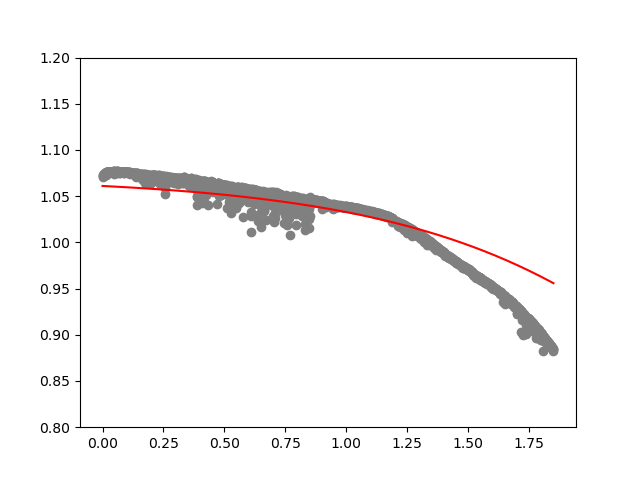
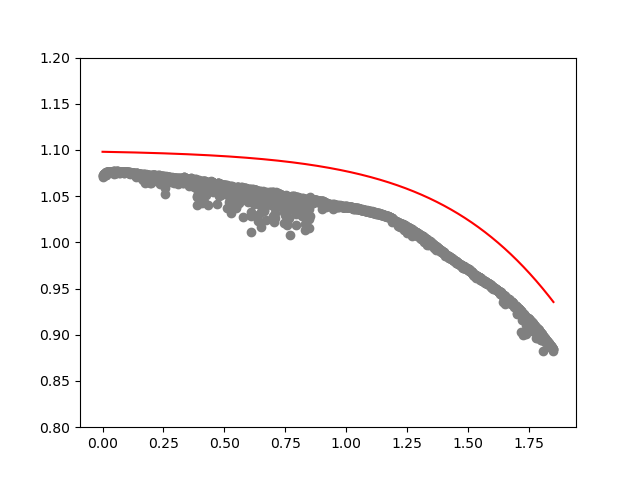
Updated code to incorporate karthik's features

diff --git a/bayes.py b/bayes.py
@@ -6,6 +6,7 @@ import pandas as pd
 import numpy as np
 
 import matplotlib.pyplot as plt
+from sklearn.preprocessing import scale
 
 from common import load_data, save_pickle
 from sklearn.metrics import mean_squared_error
@@ -22,24 +23,6 @@ def create_summary_dfs(data):
         tmp = pd.DataFrame(data[bc]['summary'])
         output_df.append(tmp)
     return output_df
-
-
-def create_features(dfs):
-    """[PLACEHOLDER FUNCTION FOR KARTHIK"""
-    x1_nominal_capacity = []
-    x2_average_temperature = []
-    x3_qd_pct_change_first100 = []
-
-    for df in dfs:
-        x1_nominal_capacity.append(df.loc[1,'QD'])
-        x2_average_temperature.append(df.loc[1,'Tavg'])
-        x3_qd_pct_change_first100.append((df.loc[100,'QD']-df.loc[1,'QD'])/df.loc[1,'QD'])
-
-    return pd.DataFrame({
-        'x1': np.array(x1_nominal_capacity),
-        'x2': np.array(x2_average_temperature),
-        'x3': np.array(x3_qd_pct_change_first100)
-    })
 
 
 def exp_decay_function(x, params):  # alpha=0.2, beta=2, gam=0.4; # alpha=0.000005, beta=1.44, gam=15000
@@ -69,45 +52,43 @@ def fetch_model(x, params, model_id):
     return y_pred
 
 
-def get_pred(data, params, model_id, scale=1000):
+def get_pred(num_cycles, params, model_id, scale=1000):
     """Helper function to access predictions for discharge capacity"""
-    cycle_life = int(data['cycle_life'][0]) - 2
-    y_true = np.array(data['summary']['QD'][1:(cycle_life+1)])
-    x = np.linspace(0, cycle_life, cycle_life) / scale  # / cycle_life
+    # cycle_life = int(data['cycle_life'][0]) - 2
+    # y_true = np.array(data['summary']['QD'][1:(cycle_life+1)])
+    x = np.linspace(0, num_cycles, num_cycles) / scale  # / cycle_life
     y_pred = fetch_model(x, params, model_id)
 
-    return y_pred, y_true
+    return y_pred
 
 
-def get_rul(data, params, model_id, threshold=0.8):
+def get_rul(threshold, params, model_id):
     """Helper function to access prediction for remianing useful life"""
-    cycle_life = int(data['cycle_life'][0]) - 2
-    nominal = data['summary']['QD'][1]
-    y_val = nominal.copy()
-    cycle_count = 0
-    while (y_val / nominal) > threshold:
-        cycle_count += 1
-        y_val = fetch_model(cycle_count, params, model_id)
-        # print(y_val)
-    y_pred = cycle_count
-    y_true = cycle_life
+    # cycle_life = int(data['cycle_life'][0]) - 2
+    # nominal = data['summary']['QD'][1]
+    y_val = params[2]  # nominal
+    count = 0
+    while y_val > threshold:
+        count += 1
+        y_val = fetch_model(count, params, model_id)
+    y_pred = count
 
-    return y_pred, y_true
+    return y_pred
 
 
-def evaluate_fit(y_true, params, model_id, start_idx=100):
+def evaluate_fit(y_test, params, model_id, start_idx=100, scale=1000):
     """Compute mse for each battery cell curve"""
-    i = 0
     mse_store = []; rul_mape_store = []
-    for bc in data.keys():
-        params_bc = [params[0][i], params[1][i], params[2][i]]
-        y_pred, y_true = get_pred(data[bc], params_bc, model_id)
-        rul_pred, rul_true = get_rul(data[bc], params_bc, model_id)
+    for i in range(len(y_test)):
+        cycle_life, threshold = len(y_test[i]), y_test[i][-1]
+        params_i = [params[0][i], params[1][i], params[2][i]]
+
+        y_pred, y_true = get_pred(cycle_life, params_i, model_id), y_test[i]
+        rul_pred, rul_true = get_rul(threshold, params_i, model_id), cycle_life/scale
+
         mse = mean_squared_error(y_pred[start_idx:], y_true[start_idx:])
         rul_mape = mean_absolute_percentage_error(np.array([rul_pred]), np.array([rul_true]))
         mse_store.append(mse); rul_mape_store.append(rul_mape)
-
-        i += 1
 
     return mse_store, rul_mape_store
 
@@ -117,9 +98,11 @@ def plot_examples(data, ex_list, params, model_id, scale=1000):
     i = 0
     for bc in data.keys():
         if bc in ex_list:
-            params_bc = [params[0][i], params[1][i], params[2][i]]
-            cycle_life = int(data[bc]['cycle_life'][0])-2
-            y_pred, y_true = get_pred(data[bc], params_bc, model_id)
+            y_test_i = data[bc]['summary']['QD'][1:].copy()
+            cycle_life = len(y_test_i)  # y_test_i[-1]
+            params_i = [params[0][i], params[1][i], params[2][i]]
+
+            y_pred, y_true = get_pred(cycle_life, params_i, model_id), y_test_i
             x = np.linspace(0, cycle_life, cycle_life) / scale
 
             plt.scatter(x, y_true, color='grey')
@@ -132,27 +115,49 @@ def plot_examples(data, ex_list, params, model_id, scale=1000):
         i += 1
 
 
-def prepare_data_for_stan(dfs):
-    """Create dictionary of data inputs for stan model"""
-    y = []
-    N_BC = []
+def create_features(train_data):
+    """[PLACEHOLDER FUNCTION FOR KARTHIK"""
+    X_df = train_data.groupby(['bat_id']).last().reset_index(drop=True)
+    X_df.columns = X_df.columns.str.lower()
 
-    for df in dfs:
-        N_BC.append(df.shape[0])
-        y.append(np.array(df['QD']))
-    X = create_features(dfs)  # check dim!
-    y = np.hstack(y)
+    # for df in dfs:
+    #     x1_nominal_capacity.append(df.loc[1,'QD'])
+    #     x2_average_temperature.append(df.loc[1,'Tavg'])
+    #     x3_qd_pct_change_first100.append((df.loc[100,'QD']-df.loc[1,'QD'])/df.loc[1,'QD'])
+
+    x1_nominal_capacity = train_data.groupby(['bat_id']).nth(1)['QD']
+    x2_variance_100v10 = X_df['variance'].copy()
+    x3_log_min_difference = X_df['log|min(delta(q(v)))|'].copy()
+    x4_chargetime_average = X_df['chargetimeavg cyc1-5'].copy()
+    x5_avg_temperature_integral = X_df['temp integral'].copy()
+    # x6_intercept_2to100 = X_df['intercept 2-100'].copy()
+
+    X = pd.DataFrame({
+        'x1': np.array(x1_nominal_capacity),
+        'x2': np.array(x2_variance_100v10),
+        'x3': np.array(x3_log_min_difference),
+        'x4': np.array(x4_chargetime_average),
+        'x5': np.array(x5_avg_temperature_integral),
+        # 'x6': np.array(x6_intercept_2to100),
+    })
+
+    X_scaled = scale(X)
+    X_scaled[:, 0] = np.array(x1_nominal_capacity)  # overwrite nominal capacity
+    return X_scaled
+
+
+def prepare_data_for_stan(X_scaled, train_y):
+    """Create dictionary of data inputs for stan model"""
+    labels = np.hstack(train_y)
+    N_BC = np.array([len(y_i) for y_i in train_y])
 
     return {
         'T': np.sum(N_BC),               # total number of cycles
-        'N': len(dfs),
-        'd': X.shape[1],
-        'y': y,                          # flattened labels
-        'x1': np.array(X['x1']),
-        'x2': np.array(X['x2']),
-        'x3': np.array(X['x3']),
-        # 'X': X.to_json(),                # feature variables
-        'N_BC': np.array(N_BC)
+        'N': len(train_y),
+        'd': X_scaled.shape[1],
+        'y': labels,                          # flattened labels
+        'X': X_scaled,
+        'N_BC': N_BC
     }
 
 
@@ -182,26 +187,13 @@ def prepare_code_for_stan():
         int<lower=0> N;             // number of battery cells = 200
         int<lower=0> d;             // number of feature dimensions
         vector[T] y;
-        vector[N] x1;
-        vector[N] x2;
-        vector[N] x3;
+        matrix[N,d] X;
         array[N] int N_BC;          // cycle life for each battery cell
     }
     parameters {
-        real alpha_0;
-        real alpha_1;
-        real alpha_2;
-        real alpha_3;
-
-        real beta_0;
-        real beta_1;
-        real beta_2;
-        real beta_3;
-
-        //real gamma_0;
-        //real gamma_1;
-        //real gamma_2;
-        //real gamma_3;
+        real a_0, a_1, a_2, a_3, a_4, a_5;
+        real b_0, b_1, b_2, b_3, b_4, b_5;
+        //real g_0, g_1;
 
         real<lower=0> sigma;
     }
@@ -215,9 +207,9 @@ def prepare_code_for_stan():
         real scaled_cycle_count;
 
         for(i in 1:N) {
-            alpha[i] = alpha_0 + alpha_1*x1[i] + alpha_2*x2[i] + alpha_3*x3[i];
-            beta[i] = beta_0 + beta_1*x1[i] + beta_2*x2[i] + beta_3*x3[i];
-            gamma[i] = x1[i];
+            alpha[i] = a_0 + a_1*X[i,1] + a_2*X[i,2] + a_3*X[i,3] + a_4*X[i,4];
+            beta[i] = b_0 + b_1*X[i,1] + b_2*X[i,2] + b_3*X[i,3] + b_4*X[i,4];
+            gamma[i] = X[i,1];
 
             for (j in 1:N_BC[i]) {
                 scaled_cycle_count = j / 1000.0;
@@ -229,20 +221,14 @@ def prepare_code_for_stan():
     }
     }
     model {
-        alpha_0 ~ normal(2.5, 1);
-        alpha_1 ~ normal(0, 1);
-        alpha_2 ~ normal(0, 1);
-        alpha_3 ~ normal(0, 1);
+        a_0 ~ normal(2.5, 1);
+        a_1, a_2, a_3, a_4 ~ normal(0, 1);
 
-        beta_0 ~ normal(2.5, 1);
-        beta_1 ~ normal(0, 1);
-        beta_2 ~ normal(0, 1);
-        beta_3 ~ normal(0, 1);
+        b_0 ~ normal(2.5, 1);
+        b_1, b_2, b_3, b_4 ~ normal(0, 1);
 
-        //gamma_0 ~ normal(1.1, 1);
-        //gamma_1 ~ normal(0, 1);
-        //gamma_2 ~ normal(0, 1);
-        //gamma_3 ~ normal(0, 1);
+        //g_0 ~ normal(1.1, 1);
+        //g_1 ~ normal(0, 1);
 
         sigma ~ gamma(1, 2);
 
@@ -292,13 +278,34 @@ def test_script_for_stan():
     return "Test script runs without error!"
 
 
-def prepare_params_given_samples(fit, stan_data):
+def prepare_params_given_samples(fit, X):
     """Helper function to pull together mle estimates given posterior samples"""
-    alpha = fit['alpha_1'].mean()*stan_data['x1'] + fit['alpha_2'].mean()*stan_data['x2'] + fit['alpha_3'].mean()*stan_data['x3'] + fit['alpha_0'].mean()
-    beta = fit['beta_1'].mean()*stan_data['x1'] + fit['beta_2'].mean()*stan_data['x2'] + fit['beta_3'].mean()*stan_data['x3'] + fit['beta_0'].mean()
-    gamma = stan_data['x1']
+    a_0, a_1, a_2, a_3, a_4, a_5 = fit['a_0'].mean(), fit['a_1'].mean(), fit['a_2'].mean(), fit['a_3'].mean(), fit['a_4'].mean(), fit['a_5'].mean()
+    b_0, b_1, b_2, b_3, b_4, b_5 = fit['b_0'].mean(), fit['b_1'].mean(), fit['b_2'].mean(), fit['b_3'].mean(), fit['b_4'].mean(), fit['b_5'].mean()
+    # g_0, g_1 = fit['g_i'].mean(), fit['g_0'].mean()
+
+    alpha = a_0 + a_1*X[:, 0] + a_2*X[:, 1] + a_3*X[:, 2] + a_4*X[:, 3] + a_5*X[:, 4]
+    beta = b_0 + b_1*X[:, 0] + b_2*X[:, 1] + b_3*X[:, 2] + b_4*X[:, 3] + b_5*X[:, 4]
+    gamma = X[:, 0]  # g_0 + g_1*X_scaled[:, 0]
 
     return [alpha, beta, gamma]
+
+
+def prepare_label_data(data_dict, train_ids, test_ids):
+    """Helper function to prepare labels for train and test"""
+    train_y, test_y = [], []
+    for bc in data_dict:
+
+        if bc in train_ids:
+            train_y.append(data_dict[bc]['summary']['QD'][1:])
+
+        elif bc in test_ids:
+            test_y.append(data_dict[bc]['summary']['QD'][1:])
+
+        else:
+            print("Error: we are missing some battery ids!")
+
+    return train_y, test_y
 
 
 if __name__ == '__main__':
@@ -306,26 +313,32 @@ if __name__ == '__main__':
     # load data
     infile = sys.argv[1]
     data = load_data(os.path.join('data', infile))
-    train = pd.read_csv(os.path.join('data', 'train.csv'))
-    test = pd.read_csv(os.path.join('data', 'test.csv'))
-    dfs = create_summary_dfs(data)
+    train_dat = pd.read_csv(os.path.join('data', 'train.csv'))
+    test_dat = pd.read_csv(os.path.join('data', 'test.csv'))
+
+    train_bat_ids = np.array(train_dat['bat_id'].drop_duplicates())
+    test_bat_ids = np.array(test_dat['bat_id'].drop_duplicates())
+    y_train, y_test = prepare_label_data(data, train_bat_ids, test_bat_ids)
 
     # bayes model
     # print(test_script_for_stan())
     stan_code = prepare_code_for_stan()
-    stan_data = prepare_data_for_stan(dfs)
+    X_train = create_features(train_dat)
+    stan_data = prepare_data_for_stan(X_train, y_train)
     posterior = stan.build(stan_code, data=stan_data, random_seed=101)
     fit = posterior.sample(num_samples=1000, num_chains=1)
     save_pickle(posterior, filename='model.pkl')
     save_pickle(fit, filename='fit.pkl')
 
     # evaluate fit
+    n = len(y_test)
     map = {
-        1: (0.2, 2, 0.4),  # alpha, beta, gam
-        2: (2.5, 2.5, 1.1),  # shape, midpoint, asymptote
+        1: [np.ones(n)*0.2, np.ones(n)*2, np.ones(n)*0.4],  # alpha, beta, gam
+        2: [np.ones(n)*2.5, np.ones(n)*2.5, np.ones(n)*1.1],  # shape, midpoint, asymptote
     }
-    params = prepare_params_given_samples(fit, stan_data)  # params = map[MODEL_ID]
-    mse_store, rul_mape_store = evaluate_fit(data, params=params, model_id=MODEL_ID)
+    X_test = create_features(test_dat)
+    params = prepare_params_given_samples(fit, X_test)  # params = map[MODEL_ID]
+    mse_store, rul_mape_store = evaluate_fit(y_test, params=params, model_id=MODEL_ID)
 
     # write results
     param_list = [
